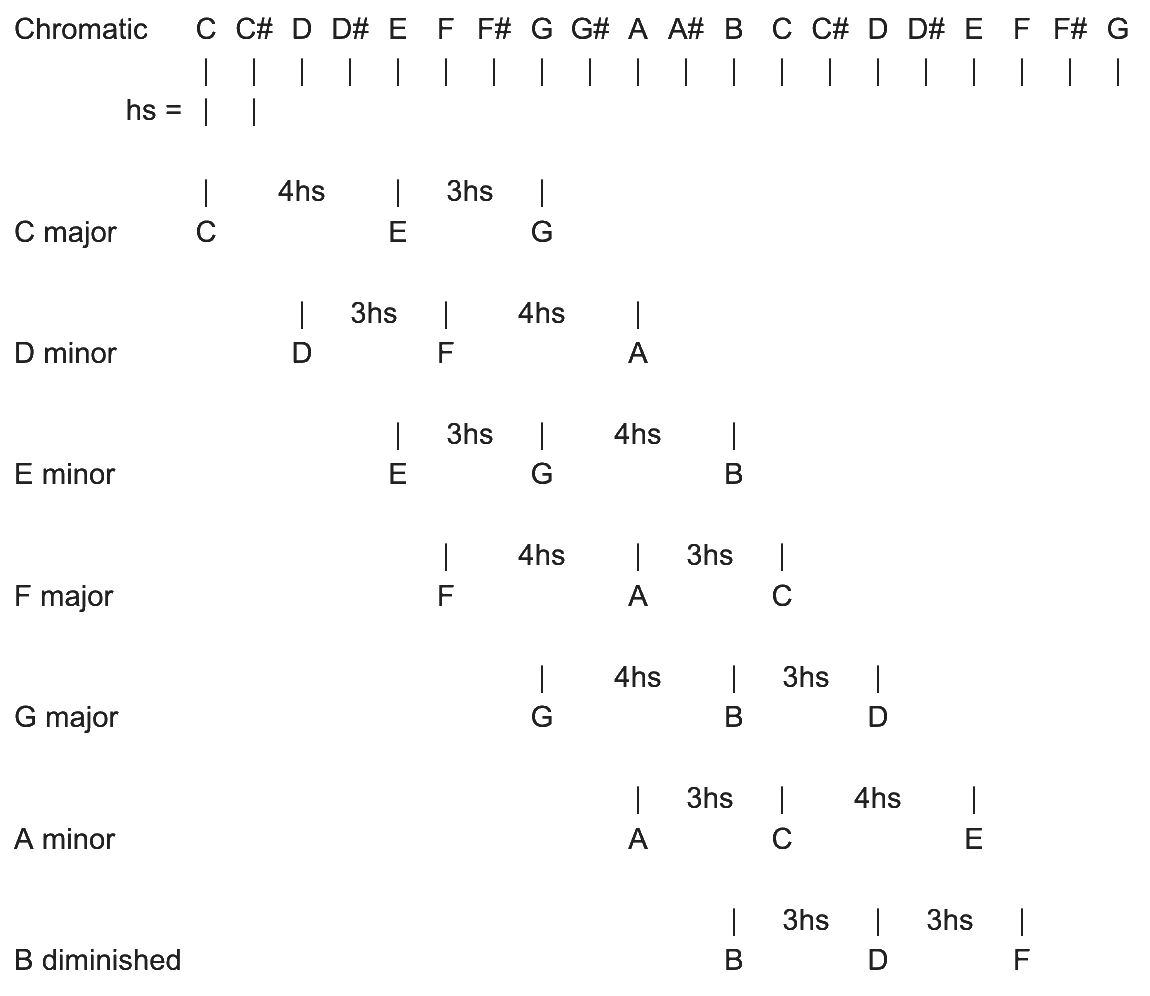
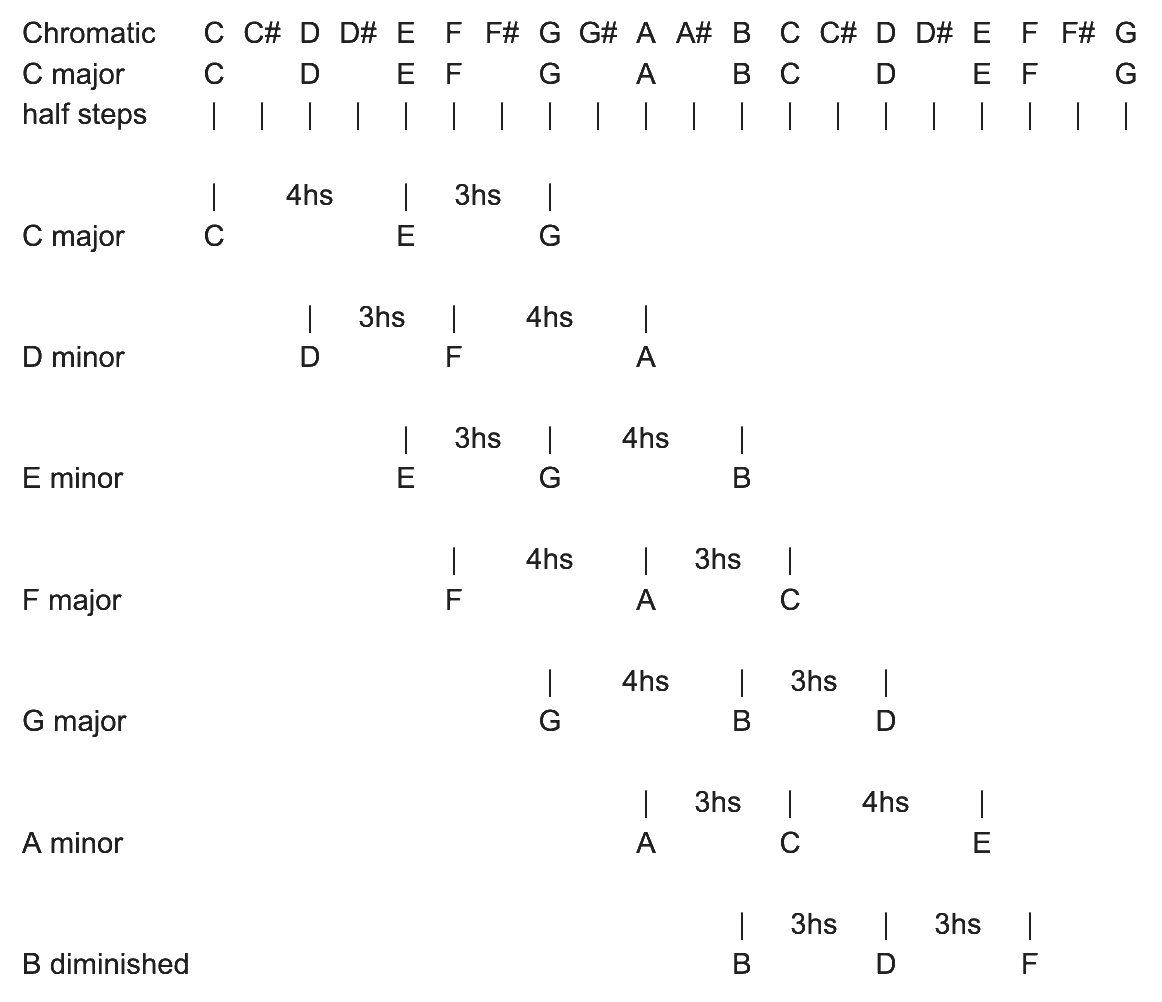
add keyboard diagrams

diff --git a/client/src/pages/MusicTheory.jsx b/client/src/pages/MusicTheory.jsx
@@ -51,7 +51,7 @@ function MusicTheory(props) {
             The reason is that in our perception, two pitches will sound very similar when one is exactly twice the frequency of the other. 
             While they are different pitches, we often consider them interchangeable. 
             For this reason each pitch name (ex F) represents multiple frequencies. 
-            The technical way to say this is that each name represents a “pitch class”. 
+            The technical way to say this is that each name represents a "pitch class". 
             To specify a single frequency, we also need to include the octave number by adding a number after the letter (ex F3). 
             This is usually unnecessary information and is omitted.
           </p>
@@ -81,6 +81,7 @@ function MusicTheory(props) {
             Every key on the piano plays a pitch one half-step from the two beside it. 
             Since E and F and B and C are only a half-step apart, there is no black key in between those keys on the piano.
           </p>
+          <img id='keyboard-diagram' src='/images/music-theory/keyboard.png' alt='keyboard'/>
           <p>
             This pattern probably seems odd, but will make sense when we discuss the major scale. 
           </p>
@@ -98,7 +99,7 @@ function MusicTheory(props) {
             You might notice that pitches with accidentals each have two names. 
             For instance, one pitch above is labeled both C# and Db. 
             Depending on the key, it makes more sense to refer to this pitch by one name or the other. 
-            Two notes with different names but the same pitch are said to be “harmonically equivalent”. 
+            Two notes with different names but the same pitch are said to be "harmonically equivalent". 
             The reason why the same pitch might need different names will become more clear once we start discussing keys and scales.
           </p>
         </div>
@@ -136,6 +137,7 @@ function MusicTheory(props) {
             Starting on a C, the intervals of the natural tones are the same as the major scale. 
             Therefore, if you start on a C and play all the white keys up to the next C, you have played a C major scale. 
           </p>
+          <img id='keyboard-interval-diagram' src='/images/music-theory/keyboard-with-intervals.png' alt='keyboard-with-intervals'/>
         </div>
         <div className='item'>
           <h3 id='key'>
@@ -156,14 +158,14 @@ function MusicTheory(props) {
           </h3>
           <p>
             Before we get too far into things, it's helpful to discuss how music is written. 
-            Traditionally, music is written down as “sheet music”. 
+            Traditionally, music is written down as "sheet music". 
           </p>
           <p>
             Notes are written on a staff. 
             The staff has five lines with spaces in between. 
             Each line and space is used to represent a different pitch. 
             Ledger lines can also be added to show notes above or below the staff. 
-            Where the notes are placed depends on the “clef” or symbol at the far left of the staff. 
+            Where the notes are placed depends on the "clef" or symbol at the far left of the staff. 
             You can write any pitch with any clef, but different clefs are used for different instruments so that most notes lay on the staff.
           </p> 
         </div>
@@ -192,7 +194,7 @@ function MusicTheory(props) {
           </p>
           <p>
             One way people visualize this is called the circle of fifths. 
-            The circle of fifths shows all 12 possible keys arranged by the interval of a “perfect fifth”, the distance between the first and fifth notes of the major scale. 
+            The circle of fifths shows all 12 possible keys arranged by the interval of a "perfect fifth", the distance between the first and fifth notes of the major scale. 
             At first, this might seem like an odd choice. 
             However, if you look at the accidentals in each key, you can see that adjacent keys share most of the same pitches. 
             Since G major has only one sharp, C and G share 6 of 7 pitches. 
@@ -245,6 +247,7 @@ function MusicTheory(props) {
             Quality refers to the intervals between the pitches in the chord. 
             Since some of the pitches in the key are closer than others, so are the pitches in each chord.
           </p>
+          <img id='keyboard-diagram-2' src='/images/music-theory/keyboard.png' alt='keyboard'/>
           <img id='chords-diagram' src='/images/music-theory/chords.png' alt='chords'/>
           <p>
             You can see that with major chords the distance between the first pitch and third pitch is 4 half steps (2 whole steps). 
